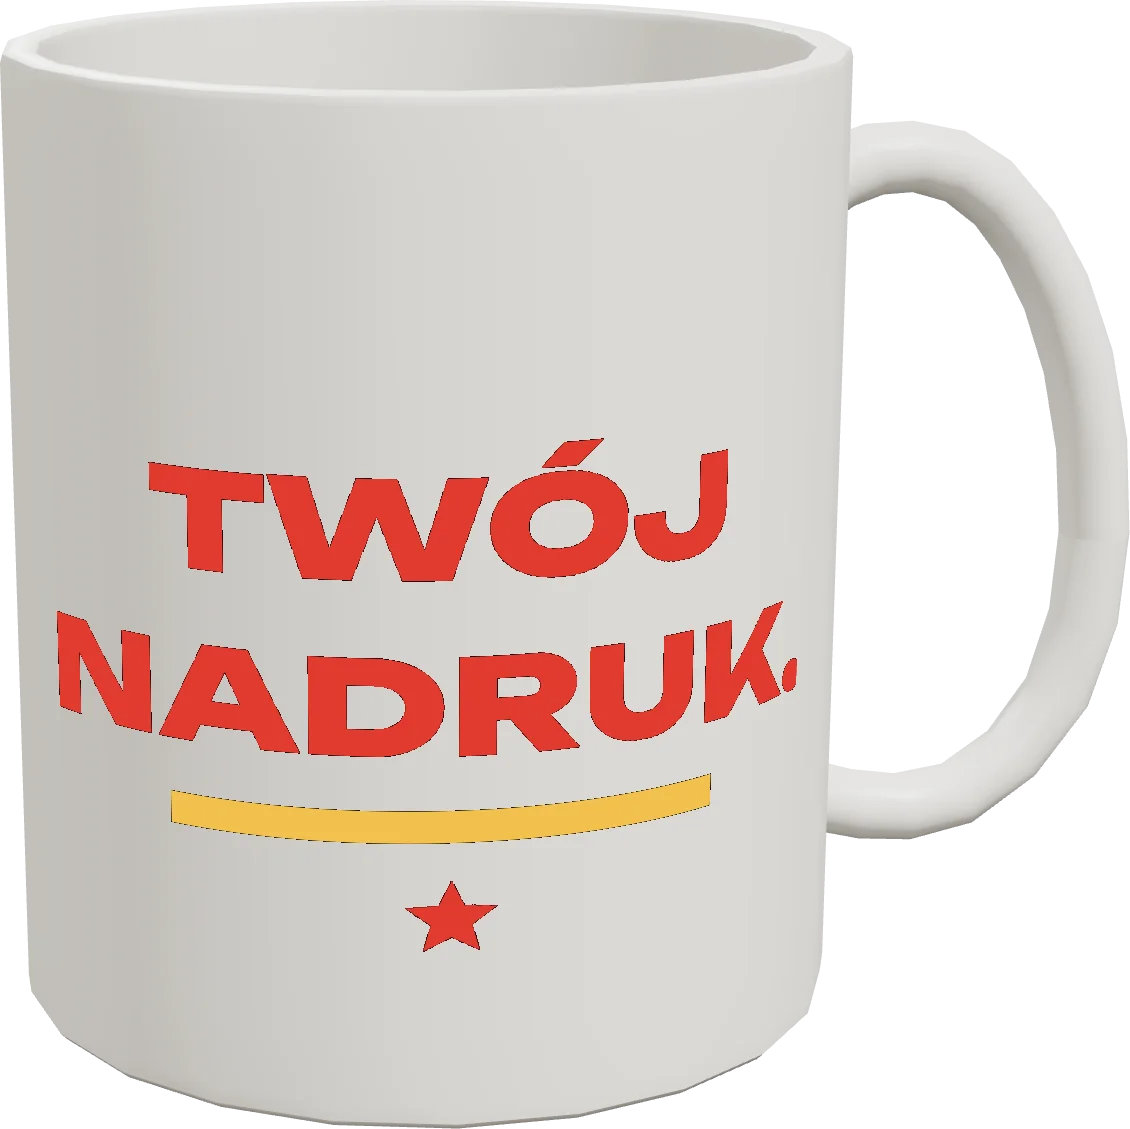
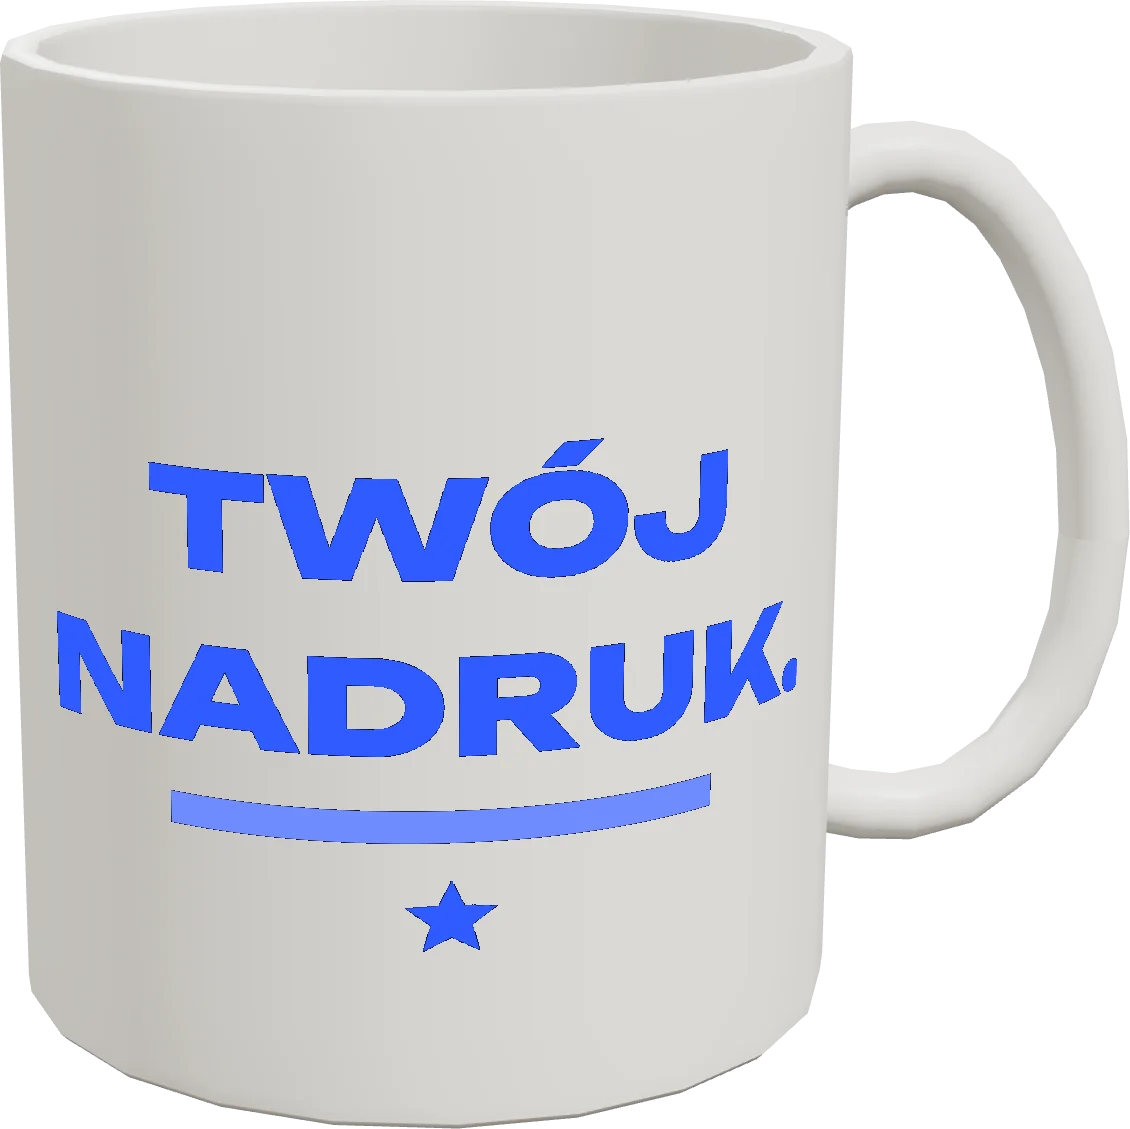
Кобальт — акцент плаката по умолчанию.
Без параметра плакат открывается в кобальте, ?accent= оставлен для сравнения. Надпись-пример на снимках футболки и кружки перерисована в цветах кобальта.

Changed region(s): [[0.031, 0.527, 0.7124, 0.837], [0.1239, 0.372, 0.6504, 0.527]]

diff --git a/components/variants/accents.ts b/components/variants/accents.ts
@@ -126,7 +126,7 @@ export const accents = [
 
 export type AccentId = (typeof accents)[number]["id"];
 
-export const defaultAccent: AccentId = "koral";
+export const defaultAccent: AccentId = "kobalt";
 
 export function parseAccent(value: unknown): AccentId {
   return accents.find((item) => item.id === value)?.id ?? defaultAccent;

diff --git a/README.md b/README.md
@@ -13,6 +13,6 @@ npm run dev -- --hostname 0.0.0.0 --port 43131
 
 Интерфейс по-польски, цены-заглушки в zł. Путь: две двери → лавка выбранной вещи → редактор → корзина. Цвет с лавки красит ткань 3D, принт лежит поверх. В редакторе холст Fabric и 3D футболки и кружки. На листе кнопки действий нарисованы своими иконками в коде страницы, без шрифта иконок и без запроса к чужому серверу. Перед корзиной лист говорит, если фото реже 300 dpi, объект вылез за край или текст меньше 5 мм. Белый цвет надписи остаётся на модели. PNG зоны на 300 dpi пишется в `data/prints` на сервере drukarycz.pl, когда человек идёт из редактора в корзину. Редактор открывается целиком, когда лист и модель уже собраны. До этого на экране только «Otwieramy edytor…». Файл футболки сжат с 6,5 МБ до 300 КБ, а модели и код редактора начинают грузиться уже на дверях. Подпись по-польски всплывает при наведении. Названия сторон — Przód, Tył, Obwód — остаются словами. Двери, лавка, холст и корзина лежат на сервере drukarycz.pl: обновление страницы их не стирает. Войти можно по польскому телефону и тестовому коду, он виден в окне входа. Заказ и цена в CRM не уходят. Отделка на лавке — только вид, без ширины рулона.
 
-Двери и лавка оформлены плакатом (вариант A), он открывается на `/`. Для сравнения остались `/?v=b` — сетка и `/?v=c` — керамика. С параметром `?v=` вверху экрана появляется переключатель вариантов. Цвет кнопок и акцентов плаката подбирается параметром `?accent=`: `koral` (по умолчанию), `czerwien`, `kobalt`, `limonka`, `zielen`, `czern`. С этим параметром видна панель палитр. Палитры лежат в `components/variants/accents.ts`. Код вариантов лежит в `components/variants`, редактор и корзина у всех общие. Шрифты (Unbounded, Manrope, Fraunces, IBM Plex Mono, лицензии OFL рядом) лежат в `public/fonts`, снимки вещей — в `public/products`. Снимки сняты с тех же 3D-моделей, что в редакторе; надписи на них примерные.
+Двери и лавка оформлены плакатом (вариант A), он открывается на `/`. Для сравнения остались `/?v=b` — сетка и `/?v=c` — керамика. С параметром `?v=` вверху экрана появляется переключатель вариантов. Цвет кнопок и акцентов плаката подбирается параметром `?accent=`: `kobalt` (по умолчанию), `koral`, `czerwien`, `limonka`, `zielen`, `czern`. Надпись-пример на снимках футболки и кружки нарисована в цветах кобальта. С этим параметром видна панель палитр. Палитры лежат в `components/variants/accents.ts`. Код вариантов лежит в `components/variants`, редактор и корзина у всех общие. Шрифты (Unbounded, Manrope, Fraunces, IBM Plex Mono, лицензии OFL рядом) лежат в `public/fonts`, снимки вещей — в `public/products`. Снимки сняты с тех же 3D-моделей, что в редакторе; надписи на них примерные.
 
 Страницы regulamin, prywatność, cookies, odstąpienie, reklamacje, dostawa и kontakt лежат в `/prawne`. Корзина просит e-mail, адрес и две отдельные галочки, оплату не берёт. Реквизиты фирмы в `lib/seller.ts` пустые, пока организация их не впишет. Что осталось до продажи — в `docs/plan-prawny.md`.
